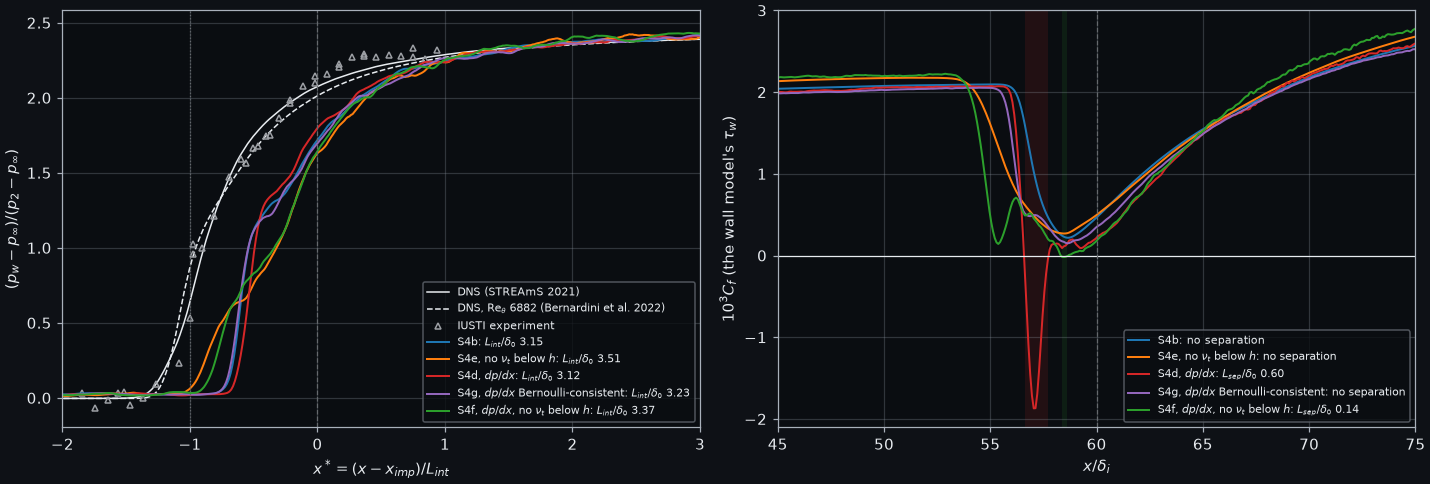
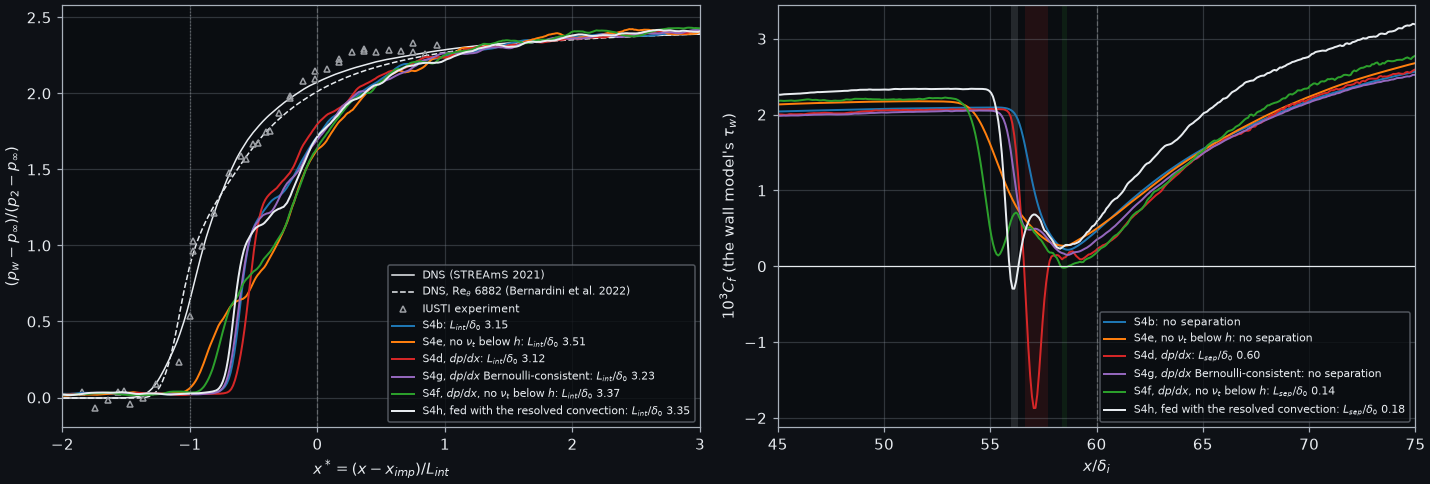
docs(flume): S4h, the SBLI with the wall model fed with the resolved convection (#121)
S4b restarted at t 1200 with S4d's model fed with the resolved convection (the previous commit's
wall_model_convection, filter 10, eddy viscosity kept), to t 1450, statistics t >= 1300 (prod-gn job
1366350, 4 A30, 5 h 27 min).

- L_int/delta_0 3.36 (DNS 3.30; S4b 3.16, S4d 3.13, S4g 3.24): the closest of the runs. The onset
  0.3 delta_0 upstream of S4b's (5 % of the rise 2.63 delta_0 ahead of x_imp, 50 % 2.23; DNS 4.13,
  3.60); first cell M 0.91 (S4b 0.98, DNS 0.83); tau_w reverses over 0.18 delta_0 at x* -0.66..-0.61,
  where the DNS's bubble begins (2.16 delta_0 from x* -0.8); the resolved first cell reverses in the
  mean over another 0.41 delta_0 (x 58.3-59.0). Reversed area 0.091 delta_0^2 (S4b 0.068).
- The zero-gradient layer moves: upstream C_f +5, +6, +9.5, +12 % against S4b (x 15-25 to 45-52; S4d,
  S4g within 3 %), the recovery higher still. The instantaneous resolved convection holds, in the mean,
  the gradient of the resolved shear stress below h, which the model's eddy viscosity already carries:
  a double count (Park & Moin 2014 reduce the model's eddy viscosity dynamically for it). The
  convection is a lever (onset and L_int move the right way), this form of it not yet a model.
- sbli.md subsection "The run: S4h" (table, three bullets), "Not done" updated; S4h in the figures
  sbli-pg-runs and sbli-reversal (make_doc_figures.py: optional runs drawn when their JSON exists);
  the STREAmS index row S4h; the page header S4b-S4h.
[…]

diff --git a/src/tests/flume/verification/make_doc_figures.py b/src/tests/flume/verification/make_doc_figures.py
@@ -3154,14 +3154,17 @@ def fig_sbli_pg(out: Path, runs: Path) -> None:
 
 
 def fig_sbli_pg_runs(out: Path, runs: Path) -> None:
-    """#121 P1: the pressure-gradient runs restarted from S4b at t = 1200, statistics t >= 1300: S4d (dp/dx), S4g (dp/dx, Bernoulli-consistent,
-    y*_pg 4), S4f (dp/dx without the eddy viscosity below h), with S4b and S4e (no eddy viscosity, no dp/dx). Data: the sbli_oracle compare JSONs
+    """#121 P1, P2: the pressure-gradient runs restarted from S4b at t = 1200, statistics t >= 1300: S4d (dp/dx), S4g (dp/dx, Bernoulli-consistent,
+    y*_pg 4), S4f (dp/dx without the eddy viscosity below h), S4h (fed with the resolved convection, when its JSON exists), with S4b and S4e (no
+    eddy viscosity, no dp/dx). Data: the sbli_oracle compare JSONs
     <runs>/sbli/sbli-m2p28-8{,-pg,-pgb,-pgnu,-nonu}.json. Left: the mean wall pressure against x* with the DNS and the experiment; right: C_f against x,
     the reversed stretches shaded."""
     import json  # noqa: PLC0415
 
     runs_ = [("sbli-m2p28-8", "C0", "S4b"), ("sbli-m2p28-8-nonu", "C1", r"S4e, no $\nu_t$ below $h$"), ("sbli-m2p28-8-pg", "C3", "S4d, $dp/dx$"),
-             ("sbli-m2p28-8-pgb", "C4", "S4g, $dp/dx$ Bernoulli-consistent"), ("sbli-m2p28-8-pgnu", "C2", r"S4f, $dp/dx$, no $\nu_t$ below $h$")]
+             ("sbli-m2p28-8-pgb", "C4", "S4g, $dp/dx$ Bernoulli-consistent"), ("sbli-m2p28-8-pgnu", "C2", r"S4f, $dp/dx$, no $\nu_t$ below $h$"),
+             ("sbli-m2p28-8-pgc", "k", "S4h, fed with the resolved convection")]
+    runs_ = [r for r in runs_ if (runs / "sbli" / f"{r[0]}.json").exists()]
     js = {name: json.loads((runs / "sbli" / f"{name}.json").read_text()) for name, _, _ in runs_}
     fig, axs = plt.subplots(1, 2, figsize=(13.0, 4.4), constrained_layout=True)
     ax = axs[0]
@@ -3204,7 +3207,8 @@ def fig_sbli_reversal(out: Path, runs: Path) -> None:
     import json  # noqa: PLC0415
 
     runs_ = [("s4b", "S4b", "C0"), ("s4c", "S4c, 2:1 box", "C2"), ("s4d", "S4d, $dp/dx$", "C3"), ("s4e", r"S4e, no $\nu_t$ below $h$", "C1"),
-             ("s4f", r"S4f, $dp/dx$, no $\nu_t$", "C5"), ("s4g", "S4g, Bernoulli-consistent", "C4")]
+             ("s4f", r"S4f, $dp/dx$, no $\nu_t$", "C5"), ("s4g", "S4g, Bernoulli-consistent", "C4"), ("s4h", "S4h, convection-fed", "k")]
+    runs_ = [r for r in runs_ if (runs / "sbli" / f"rev2-{r[0]}.json").exists()]
     fig, axs = plt.subplots(1, 2, figsize=(13.0, 4.2), constrained_layout=True, gridspec_kw={"width_ratios": [1.6, 1.0]})
     first, third, labels, colors = [], [], [], []
     for key, lab, c in runs_:

diff --git a/docs/applications/flume/verification/streams/sbli.md b/docs/applications/flume/verification/streams/sbli.md
@@ -2,7 +2,7 @@
 
 | ID | Milestone | Type | Legs | Backends | Figure |
 |---|---|---|---|---|---|
-| — (campaign `tbl_cases_s4.txt`) | [#121](https://github.com/szaghi/adam/issues/121) · S4b–S4g | P | none (the pressure-gradient key: wm12) | FNL | yes |
+| — (campaign `tbl_cases_s4.txt`) | [#121](https://github.com/szaghi/adam/issues/121) · S4b–S4h | P | none (the pressure-gradient key: wm12) | FNL | yes |
 
 ## Case and scope
 
@@ -527,9 +527,46 @@ centres, $F=dp/dx$ at the wall, where the convection vanishes) and applied to th
   resolved convection stops balancing the pressure gradient, which is where S4c, S4e and S4f reverse below $h$. Only a run says
   whether the feedback opens the DNS's bubble.
 
+### The run: S4h
+
+S4b restarted at $t=1200$ with S4d's model fed with the resolved convection (`wall_model_pressure_gradient`, filter 10,
+`wall_model_convection`; [turbulence](../../turbulence#fed-with-the-resolved-convection)), the eddy viscosity below $h$
+kept, to $t=1450$ on one node (4 A30, 5 h 27 min), statistics over the 24 checkpoints of $t\ge1300$; it is the black
+line of [the figure above](#the-pressure-gradient-without-the-convection-with-it-and-without-the-eddy-viscosity).
+
+| | S4h, fed with the resolved convection | S4d, $dp/dx$ | S4g, Bernoulli-consistent | S4b | DNS, $Re_\theta=6882$ |
+|---|---|---|---|---|---|
+| $L_{int}/\delta_0$ (the time-mean field) | **3.36** | 3.13 | 3.24 | 3.16 | 3.30 |
+| $L_{sep}/\delta_0$ from $\tau_w$ | 0.18 ($x=55.96$–56.29, $x^*=-0.66$ to $-0.61$) | 0.60 ($x^*\approx-0.6$ to $-0.4$) | 0 | 0 | 2.16 ($x^*=-0.8$ to $-0.15$) |
+| $C_f$ minimum ($10^{-3}$) | $-0.30$ at $x=56.1$ | $-1.87$ | 0.15 | 0.21 | |
+| time-mean $u<0$ in the first cell | $x=58.3$–59.0, $0.41\,\delta_0$ | none | none | none | |
+| 5 % of the rise, ahead of $x_{imp}$ | $2.63\,\delta_0$ | $2.12\,\delta_0$ | $2.44\,\delta_0$ | $2.34\,\delta_0$ | $4.13\,\delta_0$ |
+| 50 % of the rise | $2.23\,\delta_0$ | $1.77\,\delta_0$ | $2.04\,\delta_0$ | $1.96\,\delta_0$ | $3.60\,\delta_0$ |
+| first-cell Mach number at $x_{imp}-5\,\delta_0$ | 0.91 | 0.94 | 0.95 | 0.98 | 0.83 |
+| reversed area per unit span, mean (`reversal`), $\delta_0^2$ | 0.091 | 0.049 | 0.077 | 0.068 | |
+| **$C_f$ upstream against S4b**: $x=15$–25, 25–35, 35–45, 45–52 | **+5, +6, +9.5, +12 %** | +1, +1, −2, −2 % | 0, 0, −3, −3 % | | |
+
+- **The interaction moves toward the DNS.** $L_{int}$ is the DNS's within 2 % (the closest of the runs), the onset moves
+  upstream by $0.3\,\delta_0$ at 5 % and at 50 % of the rise, the first cell slows from $M=0.98$ to 0.91 (the DNS profile
+  0.83), and the wall stress reverses at $x^*\approx-0.63$, where the DNS's bubble begins. The bubble is short, $0.18$
+  against $2.16\,\delta_0$; the resolved first cell reverses in the mean over another $0.41\,\delta_0$ further down.
+- **The zero-gradient layer moves too, which it should not.** Upstream of the interaction $C_f$ rises by 5 % near the
+  inflow and by 12 % ahead of the interaction, where S4d and S4g stay within 3 % (S4e and S4f, without the
+  eddy viscosity, within 7 %), and the recovery behind the
+  reattachment is higher still. The convection fed to the model is the instantaneous resolved one, and its time mean
+  holds the gradient of the resolved shear stress, $\partial\langle\rho u'v'\rangle/\partial y$, large in the cells below $h$
+  ([the budget above](#the-near-wall-cells-of-the-incoming-layer): 0.2 of $\tau_w$ through the first face, about 1 by the
+  third). The model's own eddy viscosity already carries that stress: it is counted twice, and $\tau_w$ grows. Park &
+  Moin (2014) meet the same double count in their thin-boundary-layer model fed with the LES and reduce the model's
+  eddy viscosity dynamically, so that modelled and resolved stresses at $h$ add up to the total.
+- **So the convection is a lever, and this form of it is not yet a model.** It moves both the onset and $L_{int}$ the
+  right way, which no equilibrium-type variant did, but a model that changes the zero-gradient layer by 10 % fails the
+  layer before the interaction. The correction is the reduced eddy viscosity (or the convection of the mean flow only),
+  checked on the zero-gradient boundary layer before the interaction.
+
 ## Not done
 
-- A separation of the right length and place. The equilibrium-type models do not give it: the pressure gradient alone opens $0.6\,\delta_0$ by an inconsistent balance, the consistent one none, the slower near-wall layer $0.14\,\delta_0$ ([above](#the-pressure-gradient-without-the-convection-with-it-and-without-the-eddy-viscosity)). Left: a model fed with the flow's own convection (integral, thin-boundary-layer equations), and a matching height fixed in $\delta_i$ across the levels.
+- A separation of the right length and place. The equilibrium-type models do not give it: the pressure gradient alone opens $0.6\,\delta_0$ by an inconsistent balance, the consistent one none, the slower near-wall layer $0.14\,\delta_0$ ([above](#the-pressure-gradient-without-the-convection-with-it-and-without-the-eddy-viscosity)). The model fed with the resolved convection (S4h) moves the onset and $L_{int}$ the right way and opens $0.18\,\delta_0$ where the DNS's bubble begins, but counts the resolved stress twice ($C_f$ of the zero-gradient layer +5 to +12 %): left, its reduced eddy viscosity (Park & Moin 2014), checked on the zero-gradient layer first; and a matching height fixed in $\delta_i$ across the levels.
 - The late compression ($x^*\approx-0.6$ half-way against the DNS's $-1.1$), unchanged by the near-wall grid and by the pressure-gradient term; moved 40 % of the way by taking out the eddy viscosity below $h$ (S4e), which also moves the incoming layer off the DNS's: the matching between the model and the resolved near-wall cells.
 - The wall-pressure fluctuations and the low-frequency unsteadiness.
 - The recycling–rescaling inflow (S5).

diff --git a/docs/applications/flume/verification/streams/index.md b/docs/applications/flume/verification/streams/index.md
@@ -48,10 +48,11 @@ The toolchain is [#121](https://github.com/szaghi/adam/issues/121), which contin
 | S4e | S4b without the wall model's eddy viscosity below the matching height: the near-wall layer moves the onset, not the separation | a run restarted from S4b | [Shock/boundary-layer interaction](./sbli#without-the-eddy-viscosity-below-the-matching-height) |
 | S4f | S4d without the eddy viscosity below the matching height: the bubble shrinks, the onset moves | a run restarted from S4b | [Shock/boundary-layer interaction](./sbli#the-pressure-gradient-without-the-convection-with-it-and-without-the-eddy-viscosity) |
 | S4g | The Bernoulli-consistent pressure gradient (`wall_model_pressure_gradient_ypg`): no separation | wm2 (`test_wall_model`); a run restarted from S4b | [Shock/boundary-layer interaction](./sbli#the-pressure-gradient-without-the-convection-with-it-and-without-the-eddy-viscosity) |
+| S4h | The model fed with the resolved convection (`wall_model_convection`): the onset and $L_{int}$ move toward the DNS, the zero-gradient $C_f$ by +5 to +12 % | wm2, wm13 (turbulence); a run restarted from S4b | [Shock/boundary-layer interaction](./sbli#the-run-s4h) |
 | S5 | Recycling–rescaling turbulent inflow | — | not started |
 
 | Page | Phases | Legs | Type |
 |---|---|---|---|
 | [Non-reflecting boundary](./non-reflecting) | S2 | nr1–nr4 | P |
 | [Shock generator](./shock-generator) | S3, S4a | sg1–sg4 (boundary) | P |
-| [Shock/boundary-layer interaction](./sbli) | S4b–S4g | campaign | P |
+| [Shock/boundary-layer interaction](./sbli) | S4b–S4h | campaign | P |
